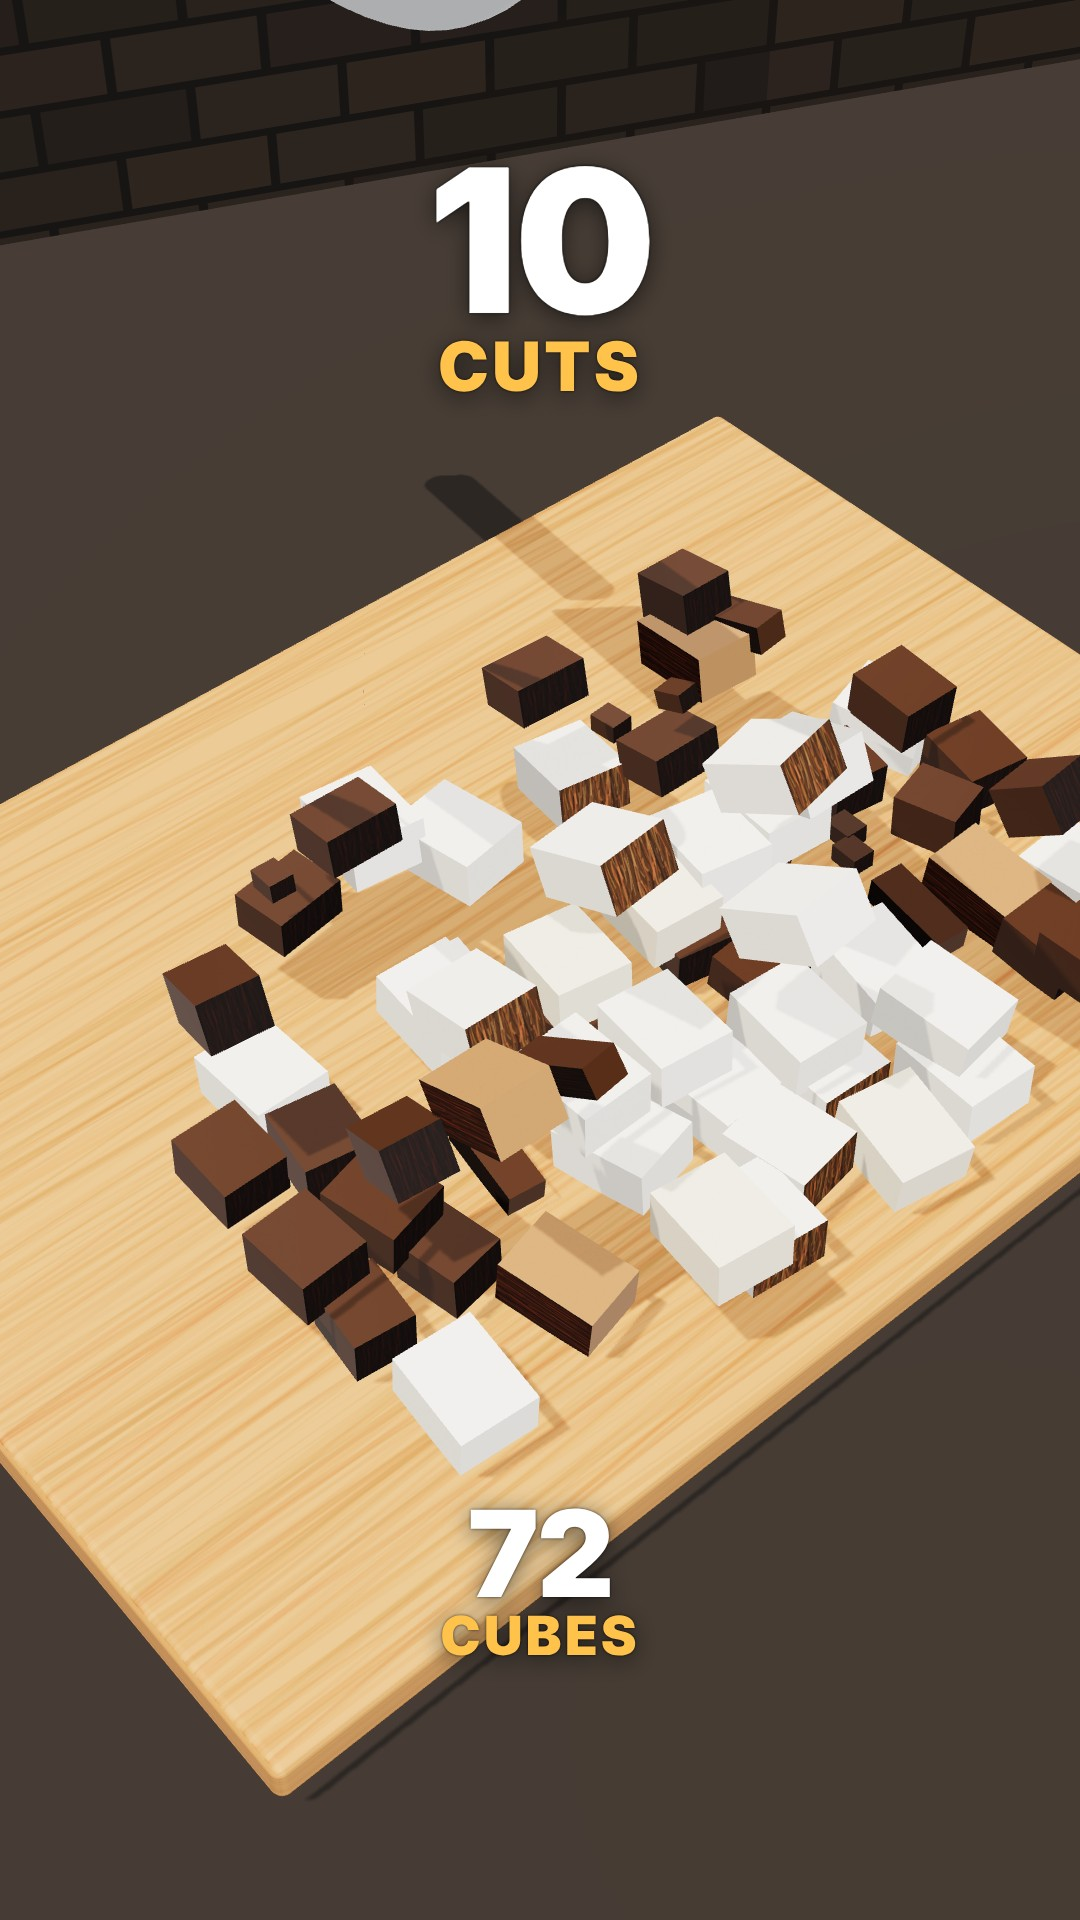
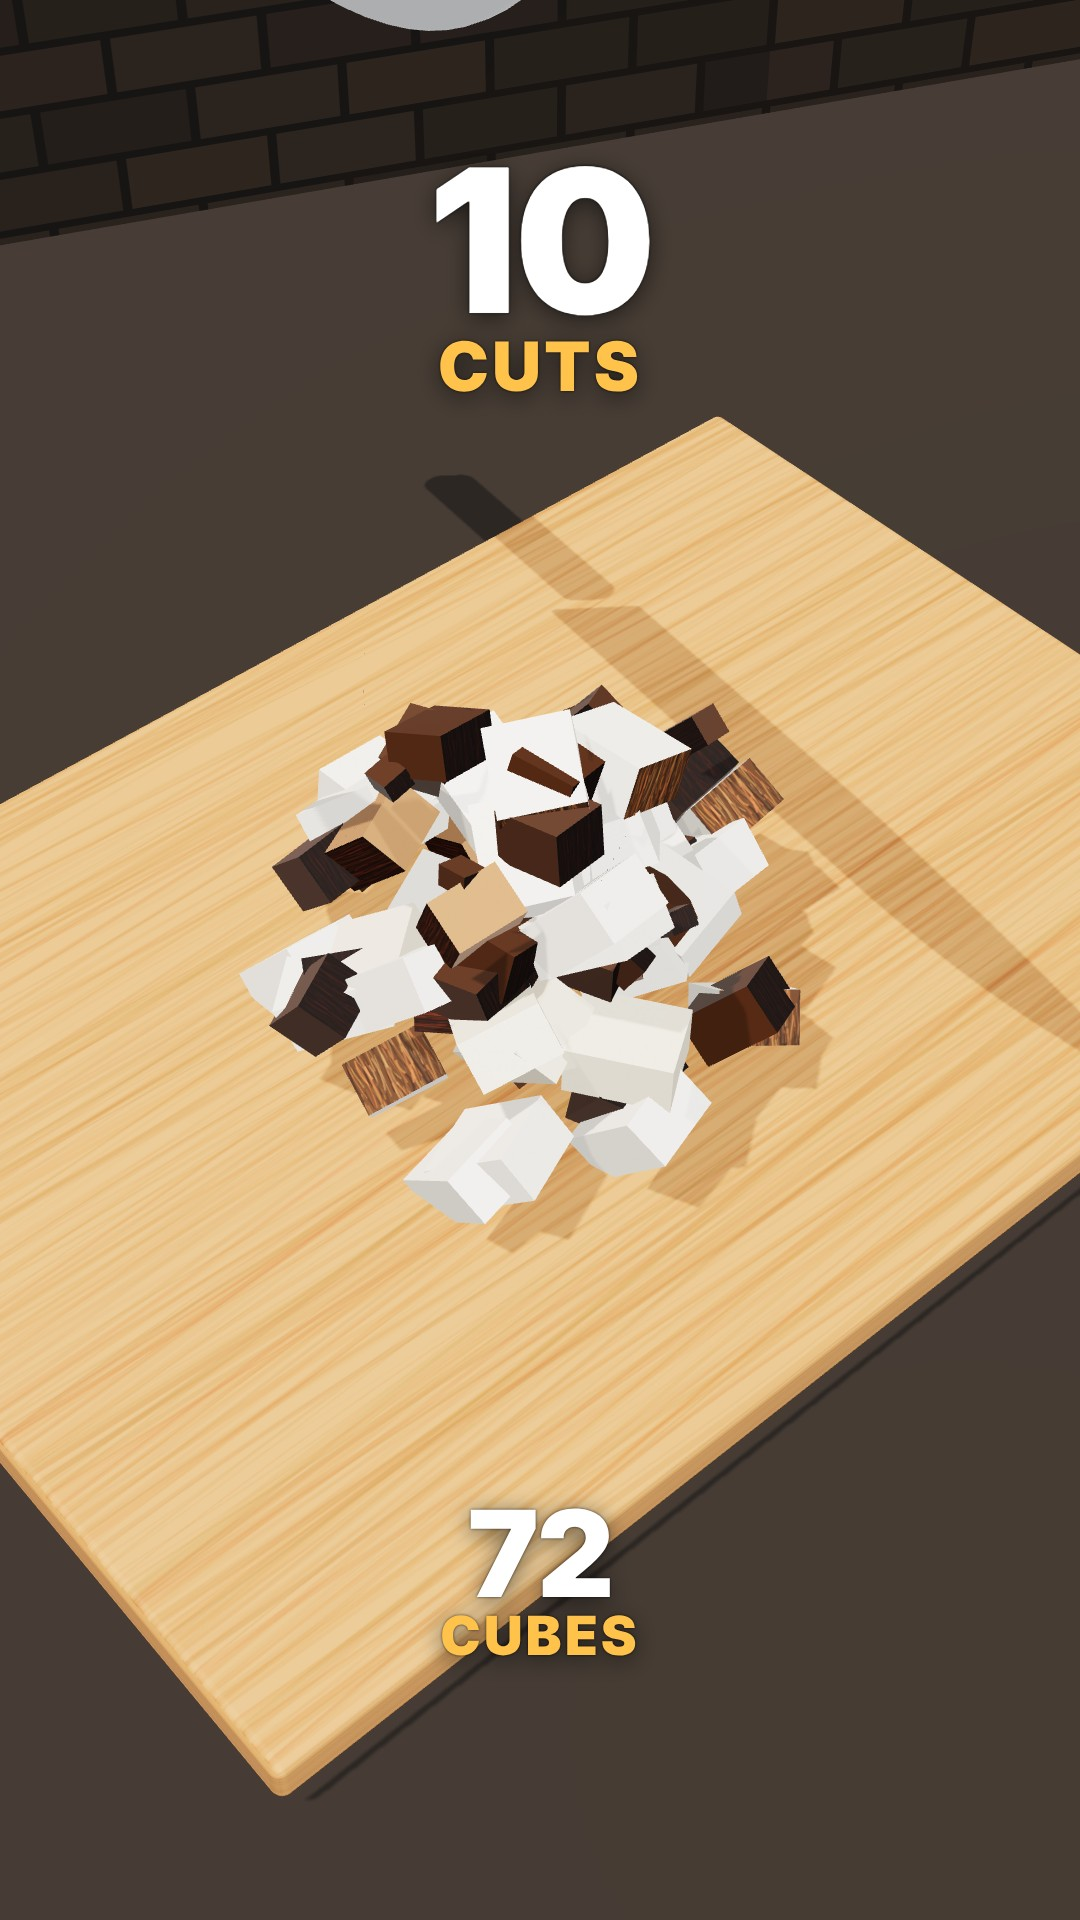
Coconut: cubes pile into a cone again (buried cubes culled)
Claude-Session: https://claude.ai/code/session_01Ro5VQJpaLhF8Rr21k8EMLG

Changed region(s): [[0.1528, 0.2812, 1.0, 0.7812]]

diff --git a/offthebooks/satisfying/coconut.html b/offthebooks/satisfying/coconut.html
@@ -268,47 +268,35 @@ function prepCells(r) {
     }
     r.cells.push(row);
   }
-  // the carpet: like the reference, every freed piece tips over forwards and the pieces spread into a flat, even layer over
-  // the board (no cone). Each piece lands in front of the cut face that freed it, on the lowest of a few spots near the
-  // place its x points to, so the layer stays level; a height field keeps the pieces resting on the ones below.
-  const GX0 = -4.6, GX1 = 4.3, GZ1 = 4.15, CELL = .07, NX = Math.ceil((GX1 - GX0) / CELL), NZ = Math.ceil((GZ1 + 3.4) / CELL);
-  const hf = new Float32Array(NX * NZ), ix = x => clamp(Math.floor((x - GX0) / CELL), 0, NX - 1), iz = z => clamp(Math.floor((z + 3.4) / CELL), 0, NZ - 1);
-  // cells under a piece: those whose centre it covers (at least the one under its centre)
-  const span = (x, a, f) => { const i0 = f(x - a / 2 + CELL / 2), i1 = f(x + a / 2 - CELL / 2); return i1 >= i0 ? [i0, i1] : [f(x), f(x)]; };
-  const top = (x, z, a, b) => { let m = 0; const [i0, i1] = span(x, a, ix), [k0, k1] = span(z, b, iz);
-    for (let i = i0; i <= i1; i++) for (let k = k0; k <= k1; k++) m = Math.max(m, hf[i * NZ + k]); return m; };
-  // pieces buried under the carpet are not drawn any more (they cannot be seen, and software rendering is slow): once a
-  // cell has grown more than a layer above a piece, the piece is hidden from the moment the covering piece lands
-  const pend = new Map(), small = (2 * RX / r.VA) <= CELL * 1.2;
+  // the pile: pieces pour into a cone on the board in front of the coconut that grows as more land (like sand). The k-th
+  // piece lands on the surface of the cone holding the first k pieces; within a row the higher pieces land nearer the tip.
+  const all = r.cells.flat(), N = all.length;
+  const vol = all.reduce((v, c) => v + c.sx * c.sy * c.sz, 0) / .7;
+  const H = 2 * RY * 1.2, R = Math.min(2.6, Math.sqrt(3 * vol / (Math.PI * H))), CX = -.35 - gapOf(r) * r.VA * .25, CZ = RZ * .9;
   let k = 0;
-  r.cells.forEach((row, j) => {
-    const zr = RZ - hv * (j + 1);
-    for (const c of row) {
-      k++;
-      const h1 = hash(k, j, 17 + r.n), h2 = hash(j, k, 29), tip = c.sy > 1.3 * c.sz || h1 < .78 ? 1 : 2;   // most tip over once, some twice; tall ones lie down
-      const ve = tip === 1 ? c.sz : c.sy, fa = c.sx, fb = tip === 1 ? c.sy : c.sz;
-      const sx0 = c.x + offFull(r, c.v), bx = -.15 + (c.x / RX) * 3.8;
-      let best = null;
-      for (let q = 0; q < 6; q++) {
-        const cx = clamp(bx + (hash(k, q, 3) - .5) * 1.4, GX0 + fa / 2, GX1 - fa / 2);
-        const z0 = zr + .3 + fb / 2, cz = lerp(z0, GZ1 - fb / 2, Math.pow(hash(q, k, 5), .8));
-        const hgt = top(cx, cz, fa, fb) + .015 * Math.hypot(cx - sx0, cz - c.z);
-        if (!best || hgt < best[2]) best = [cx, cz, hgt];
-      }
-      const [fx, fz] = best, h = top(fx, fz, fa, fb);
-      { const [i0, i1] = span(fx, fa, ix), [k0, k1] = span(fz, fb, iz), cover = Math.min(1, fa * fb / ((i1 - i0 + 1) * (k1 - k0 + 1) * CELL * CELL));
-        for (let i = i0; i <= i1; i++) for (let q = k0; q <= k1; q++) hf[i * NZ + q] = Math.max(hf[i * NZ + q], h + ve * cover * .95); }   // a small piece only partly fills its cell
-      c.fx = fx; c.fz = fz; c.fy = h + ve / 2;
-      c.qf = new THREE.Quaternion().setFromAxisAngle(UP, (h2 - .5) * .5).multiply(new THREE.Quaternion().setFromAxisAngle(new THREE.Vector3(1, 0, 0), tip * Math.PI / 2 + (hash(k, 9, j) - .5) * .2));
-      c.x0 = sx0; c.dur = .32 + .2 * Math.sqrt(Math.hypot(c.fx - sx0, c.fy - c.y, c.fz - c.z));
-      c.land = row.tc + c.dur / 1.12 + .08; c.hide = Infinity;
-      if (small) {
-        const key = ix(fx) * NZ + iz(fz), hh = hf[key], list = pend.get(key) || [];
-        for (let q = list.length - 1; q >= 0; q--) { const o = list[q]; if (hh >= o.fy + o.ve * 1.1) { o.hide = Math.max(o.land, c.land); list.splice(q, 1); } }
-        c.ve = ve; list.push(c); pend.set(key, list);
-      }
-    }
-  });
+  for (const row of r.cells) {
+    const order = [...row].sort((p, q) => q.y - p.y);
+    order.forEach((c, rank) => {
+      const f = Math.cbrt((k + 1) / N), rk = R * f, hk = H * f; c.k = k; k++;
+      const u = Math.sqrt((rank + .2 + .6 * hash(rank, k, 7)) / order.length), th = hash(k, rank, 3) * 6.283;
+      const rho = rk * u, smin = Math.min(c.sx, c.sy, c.sz);
+      c.x0 = c.x + offFull(r, c.v);
+      c.fx = CX + rho * Math.cos(th); c.fz = CZ + rho * Math.sin(th); c.fy = hk * (1 - u) + smin * .45;
+      c.dur = .3 + .22 * Math.sqrt(Math.hypot(c.fx - c.x0, c.fy - c.y, c.fz - c.z));
+      c.rho = rho; c.land = row.tc + c.dur / 1.12 + .08;
+    });
+  }
+  // pieces buried deep inside the cone are not drawn any more (nobody can see them and software rendering is slow): a piece
+  // is hidden once the cone has grown more than a couple of piece sizes over it
+  const landK = new Float64Array(N); for (const c of all) landK[c.k] = c.land;
+  for (let q = 1; q < N; q++) landK[q] = Math.max(landK[q], landK[q - 1]);                   // time by which the first q+1 pieces have all landed
+  const small = 2 * RX / r.VA < .12;
+  for (const c of all) {
+    c.hide = Infinity; if (!small) continue;
+    const d = 2.5 * Math.max(c.sx, c.sy, c.sz), fNeed = (c.fy + d + H * c.rho / R) / H;
+    if (fNeed >= 1) continue;
+    const kk = Math.ceil(N * fNeed ** 3); if (kk < N) c.hide = Math.max(c.land, landK[kk]);
+  }
 }
 
 function drawMelon(set, r, t, offset) {
